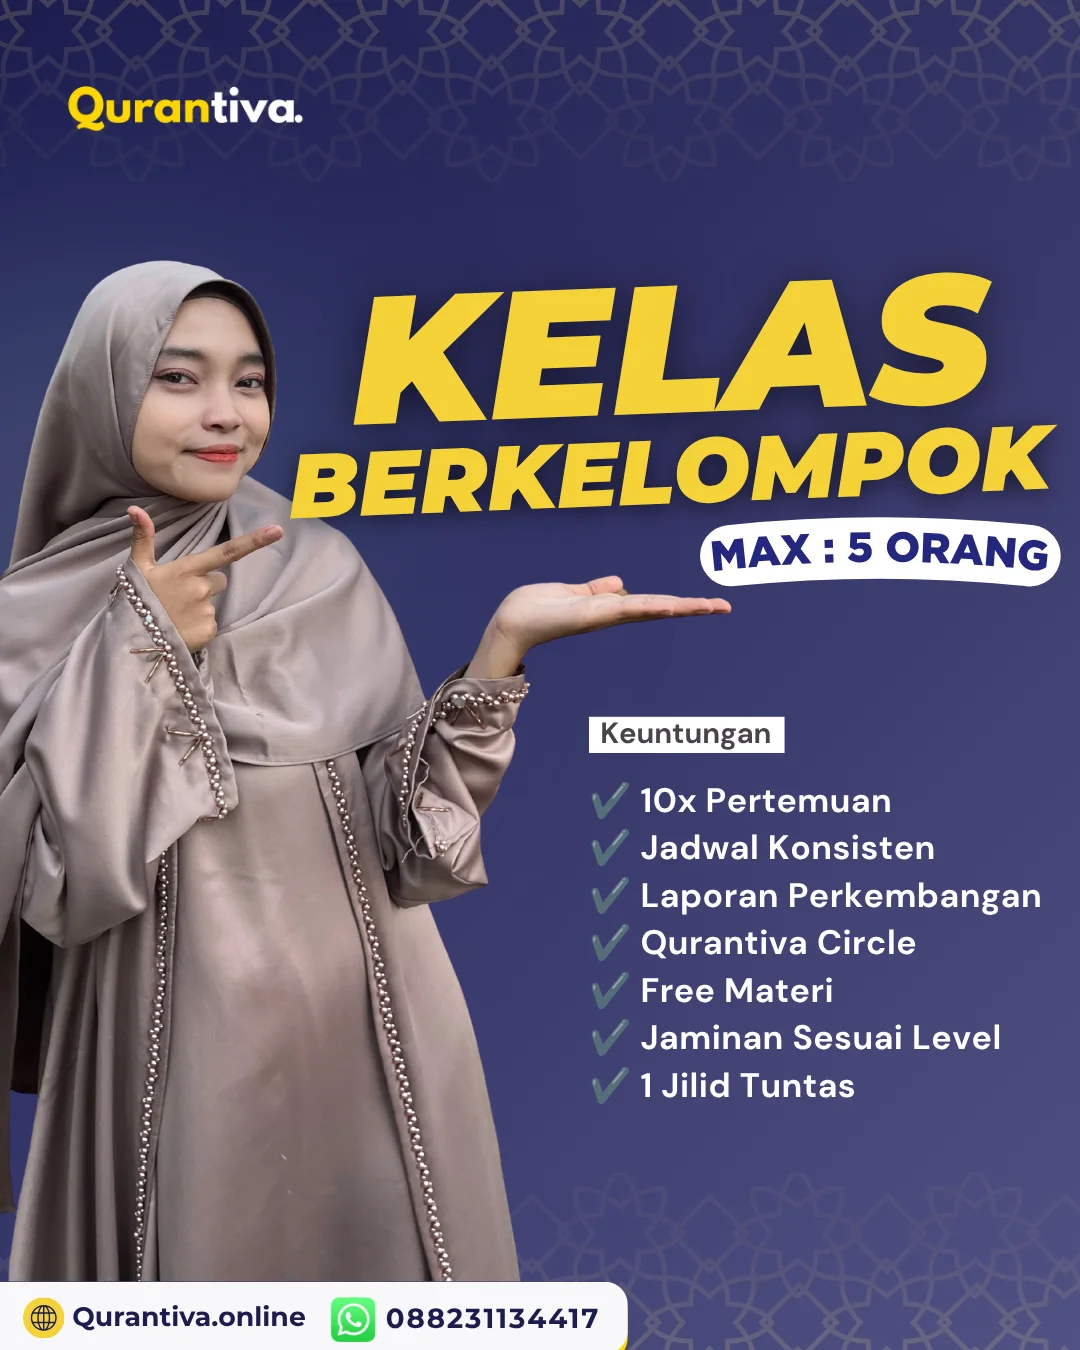
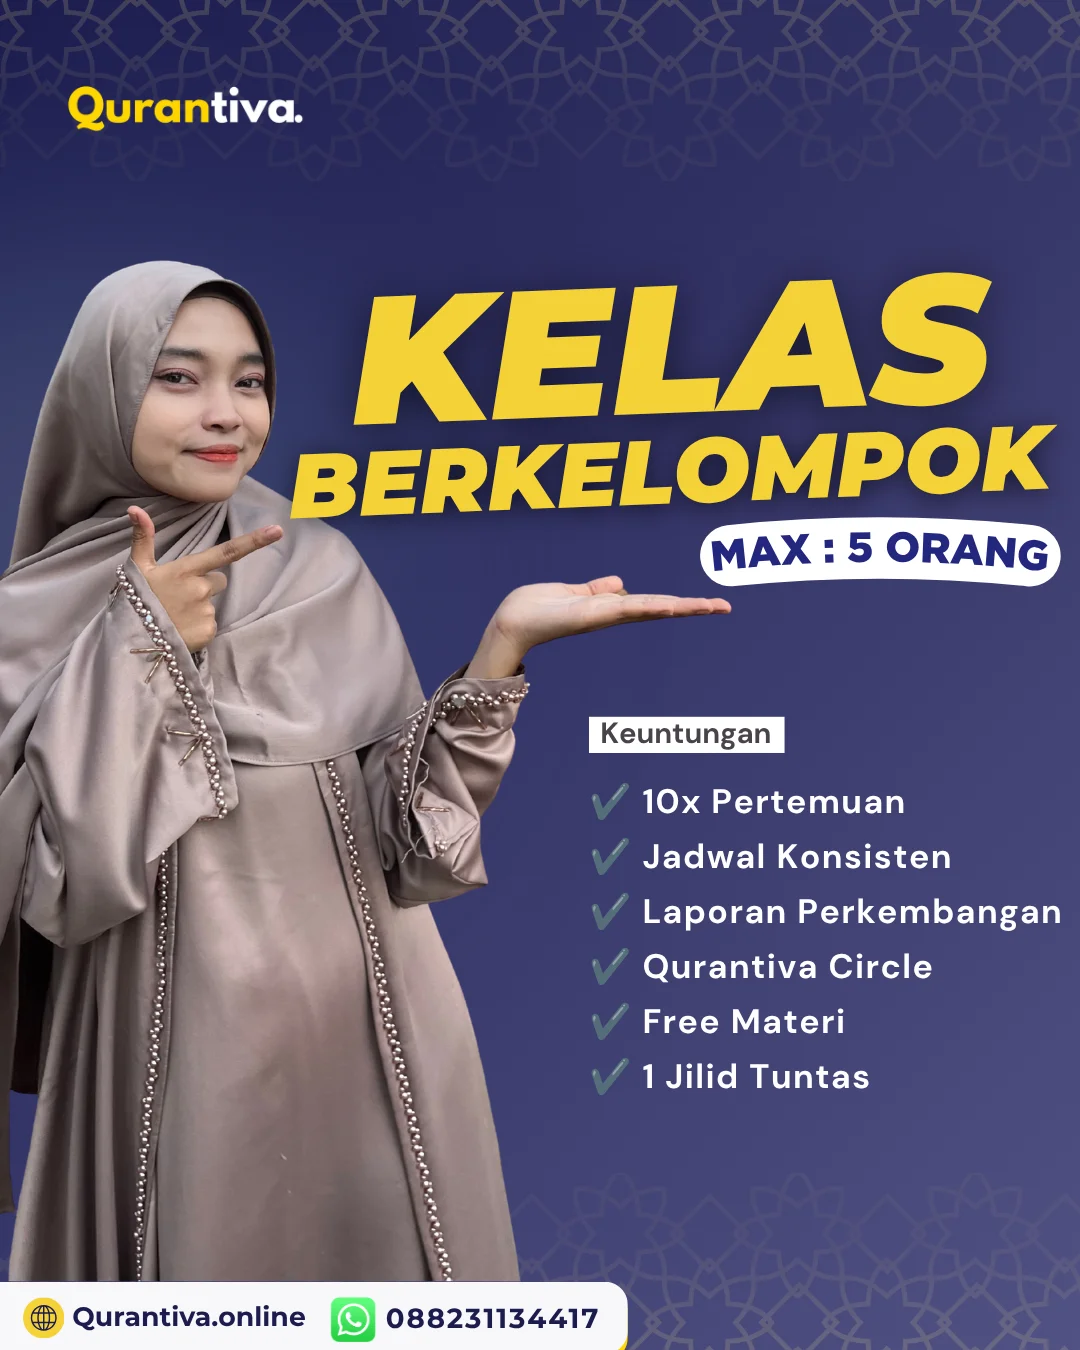
fix: revisi starter pricing, poster berkelompok, testimoni baru, nomor WA
- Kelas Starter: / 3 bulan -> / sesi
- Poster berkelompok diganti dengan Konten Paket.png (WebP)
- Testimoni text diganti dengan 4 testimoni real (Kak Gia, Anggra, Zahra, Nita)
- Nomor WA diganti ke 0881026734955

Changed region(s): [[0.55, 0.56, 0.9778, 0.8089]]

diff --git a/src/components/sections/rating.tsx b/src/components/sections/rating.tsx
@@ -9,26 +9,34 @@ import { cn } from "@/lib/utils";
 const TESTIMONIALS: Testimonial[] = [
   {
     id: 1,
-    name: "Santri Qurantiva",
-    role: "Kelas Privat 1-on-1",
+    name: "Kak Gia",
+    role: "Kelas Starter",
     content:
-      "Anak saya jadi lebih semangat ngaji. Mentornya sabar banget dan bisa menyesuaikan tempo belajar.",
+      "Ikut kelas starter di Qurantiva seru, merasa dirangkul dan penilaiannya bukan judge dengan ekspresi negatif tapi riil dinilai sesuai dengan standar yang telah ditentukan. Pokoknya seru dan jadi paham sejauh mana tingkat bacaan Qur'an-ku. Sharing ilmunya asyik bgt nggak yang kaku, jadi penasaran belajar di Qurantiva selanjutnya.",
     rating: 5,
   },
   {
     id: 2,
-    name: "Orang Tua Santri",
-    role: "Kelas Starter",
+    name: "Kak Anggra",
+    role: "Kelas Privat 1-on-1",
     content:
-      "Awalnya cuma coba kelas starter Rp 25rb, sekarang anak saya langsung lanjut paket bulanan. Worth it banget.",
+      "Alhamdulillah, selama ngaji di Qurantiva saya merasa sangat terbantu dalam proses belajar Al-Qur'an. Awalnya masih ada beberapa bacaan yang kurang tepat dan kadang masih ragu, tapi setelah belajar di sini Alhamdulillah saya jadi lebih paham dan lebih aware sama bacaan sendiri, terutama dari segi tajwid dan makhraj. Tutornya juga masyaAllah baik, sabar, dan enak banget diajak belajar. Kalau ada yang salah, langsung dikoreksi dan dijelasin sampai paham, jadi nggak takut buat salah atau bertanya.",
     rating: 5,
   },
   {
     id: 3,
-    name: "Santri Dewasa",
-    role: "Kelas Berkelompok",
+    name: "Kak Zahra",
+    role: "Kelas Privat 1-on-1",
     content:
-      "Jadwal fleksibelnya bener-bener membantu. Saya kerja full-time tapi tetap bisa ngaji tiap minggu.",
+      "Saya baru 2 kali pertemuan, tapi sejauh ini pembelajaran sangat seru dan sangat mudah untuk dipahami. Pengajarnya juga asik sehingga penyampaian materinya dapat diterima dengan baik.",
+    rating: 5,
+  },
+  {
+    id: 4,
+    name: "Kak Nita",
+    role: "Kelas Privat 1-on-1",
+    content:
+      "Alhamdulillah saya bisa terbantu banget bisa membaca dan mengucapkan dengan cara yang benar. Cara penyampaian tutor sangat suka dan sabar banget. Masuk bgt sama saya yang harus telaten karena saya pelupa dan lelet. Metodenya mudah dipahami dan terarah. Alhamdulillah saya bisa ketemu dengan Qurantiva.",
     rating: 5,
   },
 ];

diff --git a/src/lib/constants.ts b/src/lib/constants.ts
@@ -1,8 +1,8 @@
 export const CONTACTS = {
   instagram: "https://instagram.com/qurantiva.id",
   email: "qurantiva@gmail.com",
-  waPrimary: "6288231134417",
-  waPrimaryDisplay: "+62 882-3113-4417",
+  waPrimary: "62881026734955",
+  waPrimaryDisplay: "+62 881-0267-34955",
 };
 
 export const NAV_LINKS = [
@@ -160,7 +160,7 @@ export const PRICING = [
   {
     name: "Kelas Starter",
     price: "Rp. 25.000",
-    period: "/ 3 bulan",
+    period: "/ sesi",
     features: [
       "Sesi Privat 1-on-1",
       "1x Pertemuan",
